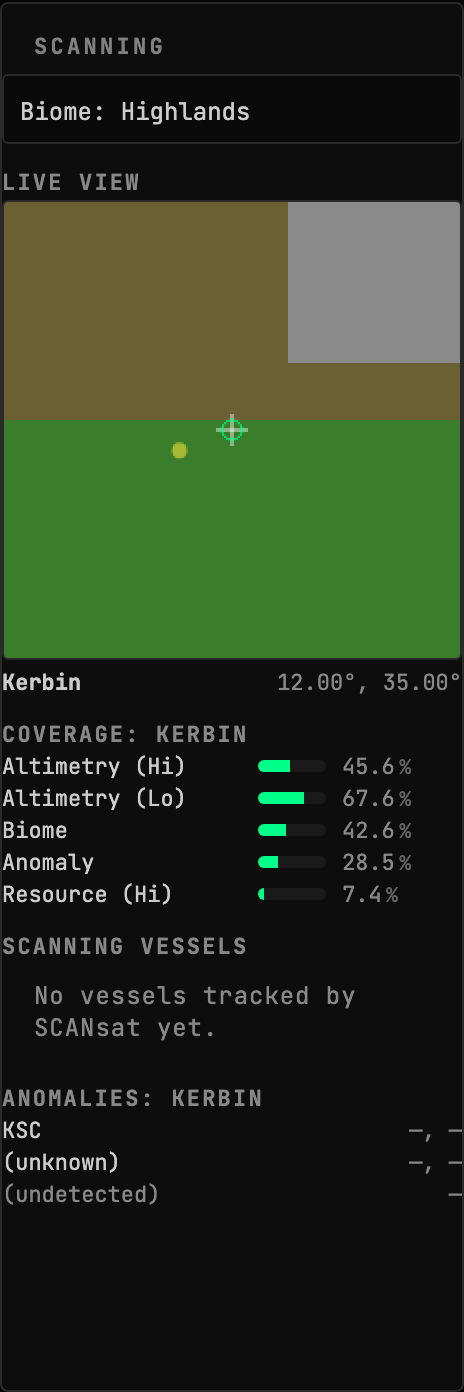
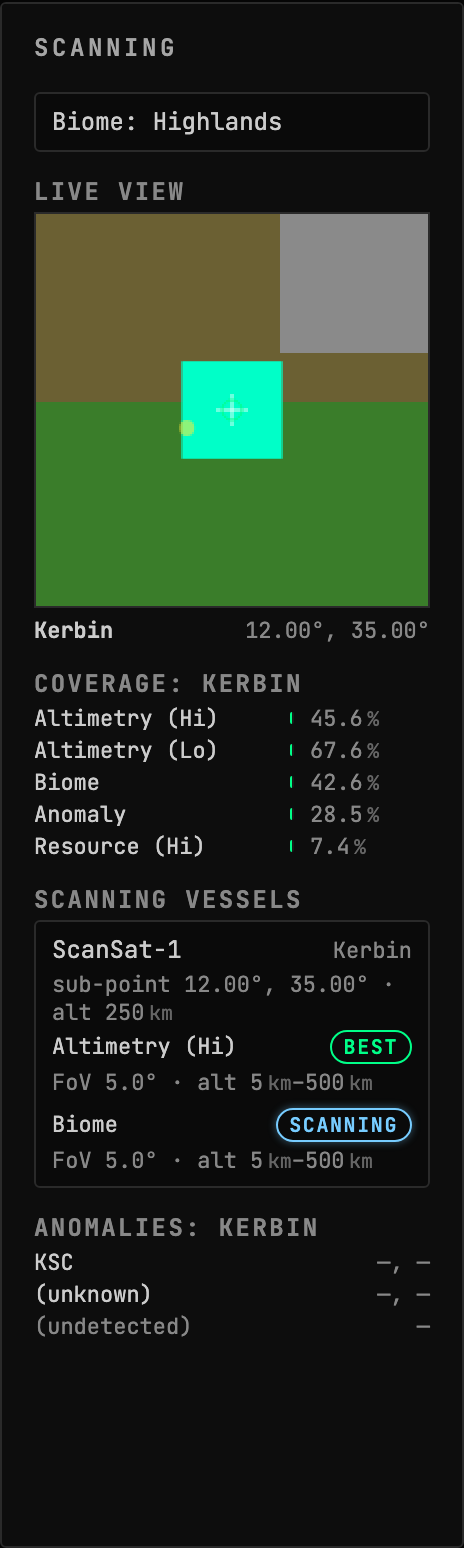
fix(scansat): each scanner's type and range badge share a row above its FoV and altitude band, so the badge no longer clips at the default tile

diff --git a/uplinks/scansat/client/src/Scanning/index.tsx b/uplinks/scansat/client/src/Scanning/index.tsx
@@ -284,20 +284,38 @@ function ScanningComponent({
                           measurement. */}
                         <Unit value={v.altitude} format="km" decimals={0} />
                       </Text>
-                      <Stack gap="caption">
+                      <Stack gap="related">
                         {v.sensors.length === 0 ? (
                           <EmptyState>No scanners.</EmptyState>
                         ) : (
                           v.sensors.map((s, i) => (
-                            <Grid
+                            <Stack
                               // biome-ignore lint/suspicious/noArrayIndexKey: sensors don't have a stable id; index is the natural order
                               key={i}
-                              cols="140px 1fr auto"
-                              gap="related-comfortable"
+                              gap="caption"
                             >
-                              <Text size="xs" tone="default">
-                                {SCAN_TYPE_LABELS[s.type] ?? `type=${s.type}`}
-                              </Text>
+                              <Cluster>
+                                <Text size="xs" tone="default">
+                                  {SCAN_TYPE_LABELS[s.type] ??
+                                    `type=${s.type}`}
+                                </Text>
+                                <Badge
+                                  size="sm"
+                                  severity={
+                                    s.bestRange
+                                      ? "nominal"
+                                      : s.inRange
+                                        ? "info"
+                                        : undefined
+                                  }
+                                >
+                                  {s.bestRange
+                                    ? "best"
+                                    : s.inRange
+                                      ? "scanning"
+                                      : "out of range"}
+                                </Badge>
+                              </Cluster>
                               <Text size="xs" tone="muted">
                                 FoV <Unit value={s.fov} decimals={1} /> · alt{" "}
                                 <Unit
@@ -312,23 +330,7 @@ function ScanningComponent({
                                   decimals={0}
                                 />
                               </Text>
-                              <Badge
-                                size="sm"
-                                severity={
-                                  s.bestRange
-                                    ? "nominal"
-                                    : s.inRange
-                                      ? "info"
-                                      : undefined
-                                }
-                              >
-                                {s.bestRange
-                                  ? "best"
-                                  : s.inRange
-                                    ? "scanning"
-                                    : "out of range"}
-                              </Badge>
-                            </Grid>
+                            </Stack>
                           ))
                         )}
                       </Stack>
